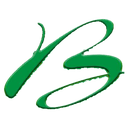
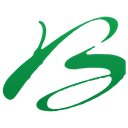
Trace Bliss wordmark to a smooth vector SVG for clean letter edges

diff --git a/index.html b/index.html
@@ -5,11 +5,11 @@
 <meta name="viewport" content="width=device-width, initial-scale=1">
 <title>Bliss Institute of Yoga &amp; Naturopathy, Agra — Dr. Sunita Garg</title>
 <meta name="description" content="Bliss Institute of Yoga, Acupuncture and Naturopathy, Agra. Therapeutic yoga, TCM diagnosis, personalised meditation, diet and lifestyle management, counselling, magnet therapy, physiotherapy and meridian massage with Dr. Sunita Garg, practising since 1990.">
-<link rel="icon" type="image/png" sizes="128x128" href="assets/bliss-icon.png">
-<link rel="apple-touch-icon" href="assets/bliss-icon.png">
+<link rel="icon" type="image/png" sizes="128x128" href="assets/bliss-icon.png?v=3">
+<link rel="apple-touch-icon" href="assets/bliss-icon.png?v=3">
 <meta property="og:title" content="Bliss Institute of Yoga, Acupuncture &amp; Naturopathy, Agra">
 <meta property="og:description" content="Therapeutic yoga, TCM diagnosis, acupressure, diet and lifestyle care with Dr. Sunita Garg, Agra. Since 1990.">
-<meta property="og:image" content="https://realsidg.github.io/bliss-institute/assets/og-image.jpg?v=2">
+<meta property="og:image" content="https://realsidg.github.io/bliss-institute/assets/og-image.jpg?v=3">
 <meta property="og:type" content="website">
 <link rel="preconnect" href="https://fonts.googleapis.com">
 <link rel="preconnect" href="https://fonts.gstatic.com" crossorigin>
@@ -278,7 +278,7 @@ footer{padding:48px 0;font-size:14px;color:var(--ink-soft)}
 <header id="top">
   <div class="wrap nav">
     <a class="brand" href="#top" aria-label="Bliss Institute home">
-      <img class="brand-mark" src="assets/bliss-wordmark-sm.png?v=2" width="101" height="46" alt="Bliss">
+      <img class="brand-mark" src="assets/bliss-wordmark.svg?v=3" width="102" height="46" alt="Bliss">
       <span><b>Institute</b><small>Yoga · Acupuncture · Naturopathy</small></span>
     </a>
     <ul id="menu">
@@ -338,7 +338,7 @@ footer{padding:48px 0;font-size:14px;color:var(--ink-soft)}
 <section class="about" id="about">
   <div class="wrap about-grid">
     <aside class="portrait reveal">
-      <img class="portrait-logo" src="assets/bliss-wordmark.png?v=2" width="557" height="253" alt="Bliss" loading="lazy">
+      <img class="portrait-logo" src="assets/bliss-wordmark.svg?v=3" width="557" height="251" alt="Bliss" loading="lazy">
       <h3>Dr. Sunita Garg</h3>
       <p>Founder &amp; Director, Bliss Institute of Yoga, Acupuncture and Naturopathy</p>
       <ul>
@@ -645,7 +645,7 @@ footer{padding:48px 0;font-size:14px;color:var(--ink-soft)}
 
 <footer>
   <div class="wrap foot">
-    <span class="foot-brand"><img src="assets/bliss-wordmark-sm.png?v=2" width="79" height="36" alt="" loading="lazy">© <span id="yr">2026</span> Bliss Institute of Yoga, Acupuncture &amp; Naturopathy, Agra</span>
+    <span class="foot-brand"><img src="assets/bliss-wordmark.svg?v=3" width="80" height="36" alt="" loading="lazy">© <span id="yr">2026</span> Bliss Institute of Yoga, Acupuncture &amp; Naturopathy, Agra</span>
     <nav><a href="#about">About</a><a href="#services">Therapies</a><a href="#visit">Contact</a></nav>
   </div>
 </footer>
